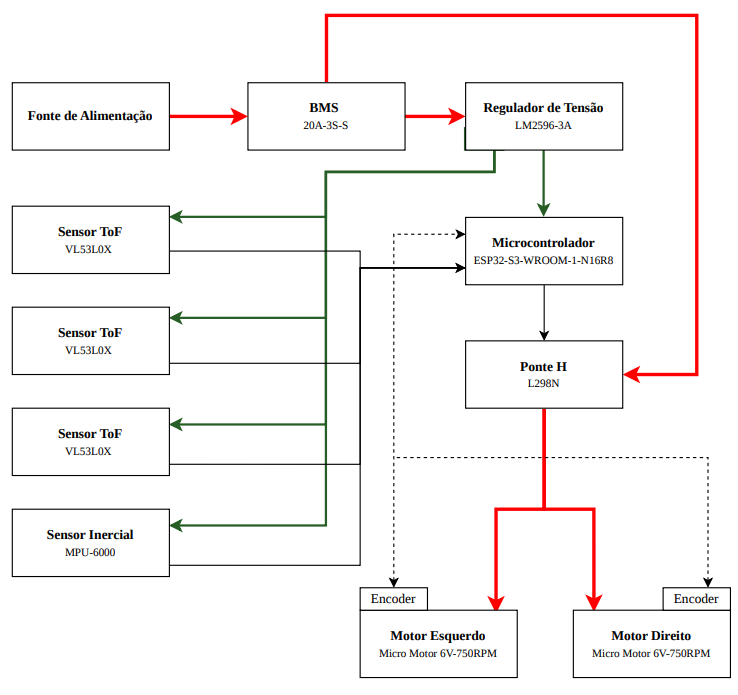
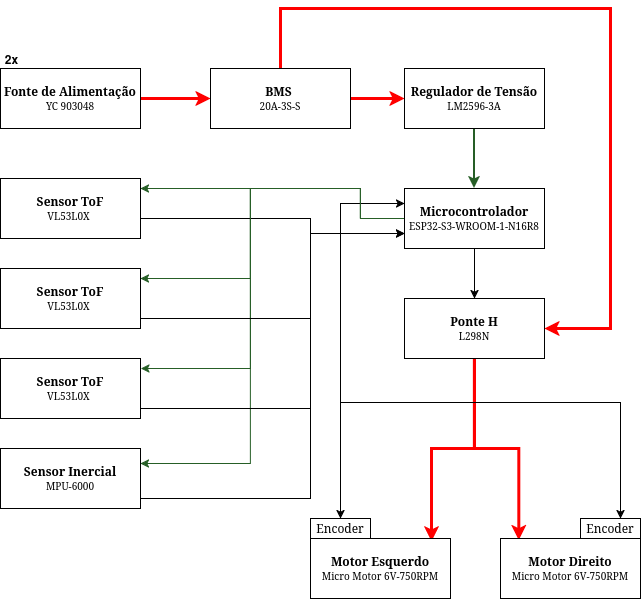
fix: arrumando diagrama de blocos

Changed region(s): [[0.0, 0.0, 1.0, 1.0], [0.0, 0.0902, 0.3432, 0.2404], [0.936, 0.6611, 0.9672, 0.6912]]

diff --git a/docs/relatorio/editaveis/06_projetoconceitual.tex b/docs/relatorio/editaveis/06_projetoconceitual.tex
@@ -50,7 +50,7 @@ O gerenciamento de todo o sistema é centralizado no ESP32-S3. Ele opera como o 
     \centering
     \includegraphics[width=0.8\textwidth]{figuras/diagrama_componentesFinal.png}
     \captionsetup{font=footnotesize}
-    \caption{Diagrama de componentes do Micromouse. As linhas contínuas pretas representam conexões físicas via protocolo I2C. As linhas verdes representam alimentação em baixa tensão (3,3V). As linhas vermelhas representam alimentação em alta tensão (6V). As linhas tracejadas representam comunicação sem fio.}
+    \caption{Diagrama de componentes do Micromouse. As linhas contínuas pretas representam conexões físicas via protocolo I2C. As linhas verdes representam alimentação de (3,3V). As linhas vermelhas representam alimentação de (6V).}
     \label{fig:diagrama_componentes}
 \end{figure}
 
@@ -63,18 +63,6 @@ A Figura \ref{fig:diagrama_esquematico} apresenta o diagrama esquemático do cir
     \captionsetup{font=footnotesize}
     \caption{Diagrama esquemático do circuito proposto para a construção do micromouse.}
     \label{fig:diagrama_esquematico}
-\end{figure}
-
-\textcolor{red}{A Fig. \ref{fig:diagrama_blocos_e_esquematico} apresenta o diagrama de blocos e o esquemático de um circuito conversor de corrente alternada para corrente direta, a título de exemplo. Repare que o diagrama de blocos indica os subsistemas do circuito completo apresentado no esquemático.
-% Comecem com o diagrama de blocos, que é mais genérico, e depois indiquem os detalhes com a lista de materiais e os esquemáticos.
-}
-
-\begin{figure}[H]
-    \centering
-    \includegraphics[width=0.5\linewidth]{figuras/Exemplo-diagrama-de-blocos.png}
-    \includegraphics[width=0.5\linewidth]{figuras/Esquematico.png}
-    \caption{\textcolor{red}{Diagrama de blocos e esquemático de um circuito conversor de corrente alternada para corrente direta. Extraído de \cite{block_n_schematic}.}}
-    \label{fig:diagrama_blocos_e_esquematico}
 \end{figure}
 
 \section{Análise de consumo energético}